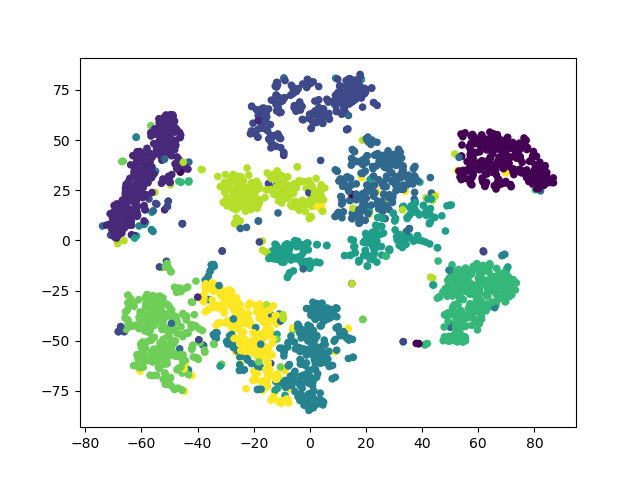
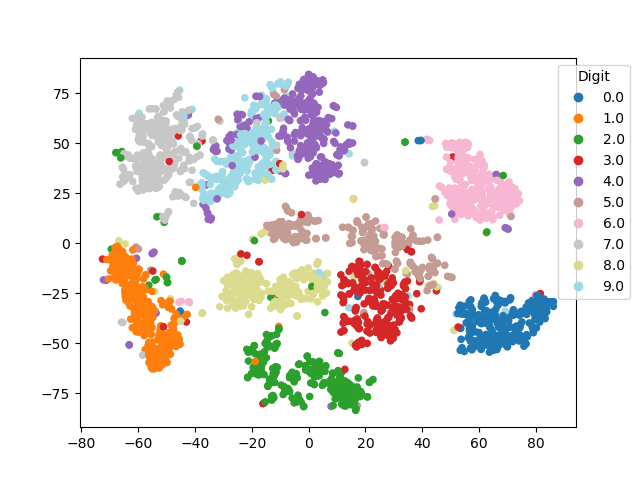
fix bugs after day2 code review

diff --git a/tsne_practice/tsne.py b/tsne_practice/tsne.py
@@ -76,12 +76,13 @@ def compute_qij(Y,
 
     n = Y.shape[0]
     dia = np.diag_indices(n) # indices of diagonal elements
-    dia_sum = sum(y_dist_matrix[dia]) # sum of diagonal elements
-    off_dia_sum = np.sum(y_dist_matrix) - dia_sum
+    #dia_sum = sum(y_dist_matrix[dia]) # sum of diagonal elements
+    #off_dia_sum = np.sum(y_dist_matrix) - dia_sum
 
-    qij = y_dist_matrix / off_dia_sum
-
-    qij[dia] = 0 # set diagonal as 0 
+    #qij = y_dist_matrix / off_dia_sum
+    
+    y_dist_matrix[dia] = 0 # set diagonal as 0 
+    qij = y_dist_matrix / np.sum(y_dist_matrix)
     qij = np.clip(qij, a_min = min_clip, a_max = None) # clip the smallest value to 1e-12
 
     return qij, y_dist
@@ -172,11 +173,11 @@ def tsne(X,
     pij = compute_pij(P)
 
     # Early exaggerate (multiply) p(n n) ij by 4 and clip the value to be at least 1e-12
-    pij = 4*pij
+    pij = 4 * pij
     pij = np.clip(pij, a_min = 1e-12, a_max = None)
 
     # Initialize low-dimensional data representation Array Y (0) using first no_dims of PCs from PCA
-    Y = pca(X, no_dims)
+    Y = X[:,:no_dims]
 
     # Initialize  delta_Y (n,no_dims) = 0, gains(n, no_dims) = 1
     delta_Y = np.zeros((n, no_dims))
@@ -225,5 +226,9 @@ if __name__ == "__main__":
     X = pca(X, 50)
     labels = np.loadtxt("mnist2500_labels.txt")
     Y = tsne(X)
-    plt.scatter(Y[:, 0], Y[:, 1], 20, labels)
+    #plt.scatter(Y[:, 0], Y[:, 1], 20, labels)
+    scatter = plt.scatter(Y[:, 0], Y[:, 1], c=labels, cmap='tab20', s=20)
+
+    handles, legend_labels = scatter.legend_elements(prop="colors", num=len(np.unique(labels)))
+    plt.legend(handles=handles, labels=[str(label) for label in np.unique(labels)], title="Digit",loc='upper left', bbox_to_anchor=(0.95, 1.0))
     plt.savefig("mnist_tsne.png")
